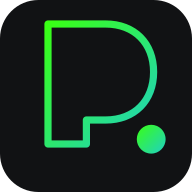
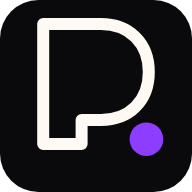
Player: oeffentliche Startseite, Branding und Typografie auf V2
Die Seite fuer Ausgeloggte war als einzige noch im alten Auftritt:
Neon-Pink (#FF00C8/#FF5CDC), Verlaufsschrift, Hero plus drei
Erklaerzeilen. Die eingeloggten Seiten sind davon nicht betroffen.

- /entdecken (!user): neu in Schwarz/Creme mit UV-Violett #8C3DFF.
  PLAYER → "Ping Pong spielen." → Rating · Ranking · Liga · Community →
  Login / Registrieren. Vier Elemente, keine Erklaerkarten.
- layout.tsx und globals.css: League Spartan raus, dafuer Anton fuer
  Titel und Inter fuer die Oberflaeche ueber next/font — vorher lud
  globals.css die Schrift ein zweites Mal per @import. Body-Farben auf
  die V2-Werte. Titel und Beschreibungen auf die neue Aussage.
- Sechs Seiten setzten "League Spartan" direkt als font-family und
  liefen damit auf der Systemschrift; jetzt var(--font-anton).
- SplashScreen und StartMenu liegen ueber jeder Seite, auch ueber der
  oeffentlichen: deren Pink-Verlauf ist jetzt Violett.
- Favicons, App-Icons und site.webmanifest im V2-Branding (Schwarz,
  Creme, violetter Ball) statt Neon-Gruen/Tuerkis.
- tsconfig/gitignore: _to_delete ausgenommen, sonst bricht der
  Typecheck an Dateien, die nicht zum Projekt gehoeren.

Auth, Supabase und die eingeloggten V2-Seiten sind unveraendert.
Production Build gruen, alle Seiten antworten.

Claude-Session: https://claude.ai/code/session_01QS4ATQcnr4Ejx3U3rTmHra

diff --git a/app/entdecken/page.tsx b/app/entdecken/page.tsx
@@ -6,26 +6,11 @@ import StartHomeV2, { Game } from '@/app/components/StartHomeV2'
 
 const BG = '#12151A', W = '#FFFFFF'
 const SUB = 'rgba(255,255,255,.9)', MUT = 'rgba(255,255,255,.85)'
-const GRAD = 'linear-gradient(135deg,#FF00C8,#FF5CDC)'
-const gt: React.CSSProperties = { background: GRAD, WebkitBackgroundClip: 'text', backgroundClip: 'text', WebkitTextFillColor: 'transparent' }
 
 const LV = [
   { n: 'Level 1', min: 0 }, { n: 'Level 2', min: 1050 }, { n: 'Level 3', min: 1150 },
   { n: 'Level 4', min: 1250 }, { n: 'Level 5', min: 1350 }, { n: 'Level 6', min: 1450 }, { n: 'Level 7', min: 1600 },
 ]
-
-function Logo() {
-  return (
-    <svg width={56} height={56} viewBox="0 0 80 80" fill="none" style={{ display: 'block' }}>
-      <defs><linearGradient id="lg" x1="0%" y1="0%" x2="100%" y2="100%"><stop offset="0%" stopColor="#FF00C8" /><stop offset="100%" stopColor="#FF5CDC" /></linearGradient></defs>
-      {/* P immer nur Outline; um -2 verschoben, damit das P selbst mittig sitzt (Ball hängt raus) */}
-      <g transform="translate(-2,0)">
-        <path d="M 20 60 L 20 10 L 44 10 C 56 10 64 18 64 30 C 64 42 56 50 44 50 L 36 50 L 36 60 Z" fill="none" stroke="url(#lg)" strokeWidth="2.5" strokeLinejoin="round" />
-        <circle cx="63" cy="58" r="6" fill="url(#lg)" />
-      </g>
-    </svg>
-  )
-}
 
 function initialsFrom(name?: string | null): string {
   if (!name) return 'PP'
@@ -40,80 +25,62 @@ export default async function EntdeckenPage() {
   const { data: { user } } = await sb.auth.getUser()
 
   if (!user) {
-    // Wie viele spielen schon mit? Der stärkste Grund mitzumachen ist,
-    // dass es bereits läuft.
+    // Oeffentliche Startseite (06.09.2026): PLAYER → Ping Pong spielen →
+    // Rating, Ranking, Liga, Community → Login. Vier Elemente, mehr nicht.
+    // Vorher stand hier der alte pinke Auftritt (#FF00C8/#FF5CDC) mit Hero,
+    // drei Erklaerzeilen und Verlaufsschrift. Farben hier bewusst als
+    // Konstanten im Block, weil app/theme.ts noch die alten Werte fuehrt.
+    const SCHWARZ = '#0A0A0C', CREME = '#FFF9F3', VIOLETT = '#8C3DFF'
+    const LEISE = 'rgba(255,249,243,.65)'
+    const SAEULEN = ['Rating', 'Ranking', 'Liga', 'Community']
+
     const { count: spielerCount } = await sb
       .from('public_profiles')
       .select('id', { count: 'exact', head: true })
 
-    // Eine Zeile im Block — dasselbe Muster wie überall: Icon, Text, Linie.
-    const ROW: React.CSSProperties = { display: 'flex', alignItems: 'center', gap: 13, padding: '14px 18px', borderTop: '1px solid rgba(255,255,255,.07)' }
-    const RIC: React.CSSProperties = { width: 34, height: 34, borderRadius: 10, background: '#353B46', display: 'flex', alignItems: 'center', justifyContent: 'center', flexShrink: 0 }
-
     return (
-      <main style={{ minHeight: '100vh', background: BG, paddingBottom: 40 }}>
-        <div style={{ maxWidth: 480, margin: '0 auto' }}>
+      <main style={{ minHeight: '100dvh', background: SCHWARZ, display: 'flex', flexDirection: 'column' }}>
+        {/* Das Foto traegt die Stimmung, der Verlauf traegt die Schrift —
+            kein Text sitzt auf einer hellen Bildstelle. */}
+        <div style={{ position: 'relative', flex: '1 1 auto', display: 'flex', flexDirection: 'column', justifyContent: 'flex-end', minHeight: 540, padding: '0 22px 44px' }}>
+          <div aria-hidden style={{ position: 'absolute', inset: 0, backgroundImage: "url('/hero-pokal.jpg')", backgroundSize: 'cover', backgroundPosition: '52% 42%' }} />
+          <div aria-hidden style={{ position: 'absolute', inset: 0, background: `linear-gradient(180deg, rgba(10,10,12,.60) 0%, rgba(10,10,12,.32) 26%, rgba(10,10,12,.86) 66%, ${SCHWARZ} 100%)` }} />
 
-          {/* Ein Bild, ein Satz, ein Knopf. Vorher: Hero + VIER Karten + eine
-              Bottom-Nav, die für Ausgeloggte überall in die Login-Wand lief. */}
-          <div style={{ position: 'relative', minHeight: 470, display: 'flex', flexDirection: 'column', justifyContent: 'flex-end', padding: '26px 22px 30px' }}>
-            <div style={{ position: 'absolute', inset: 0, backgroundImage: `linear-gradient(180deg, rgba(20,23,30,.2) 0%, rgba(20,23,30,.72) 52%, ${BG} 100%), url('/hero-pokal.jpg')`, backgroundSize: 'cover', backgroundPosition: 'center' }} />
-
-            <div style={{ position: 'relative', zIndex: 2 }}>
-              {/* Logo mittig und gross: P über der Wortmarke, Tagline exakt auf
-                  Wortmarkenbreite. Das P bleibt Outline, der Ball sitzt rechts unten. */}
-              <div style={{ display: 'flex', flexDirection: 'column', alignItems: 'center', marginBottom: 28 }}>
-                <svg width="72" height="72" viewBox="0 0 80 80" fill="none" aria-hidden>
-                  <defs><linearGradient id="hlg" x1="0" y1="0" x2="1" y2="1"><stop offset="0" stopColor="#FF00C8" /><stop offset="1" stopColor="#FF5CDC" /></linearGradient></defs>
-                  <path d="M 20 60 L 20 10 L 44 10 C 56 10 64 18 64 30 C 64 42 56 50 44 50 L 36 50 L 36 60 Z" fill="none" stroke="url(#hlg)" strokeWidth="3.6" strokeLinejoin="round" />
-                  <circle cx="63" cy="58" r="6.5" fill="url(#hlg)" />
-                </svg>
-                <div style={{ display: 'inline-flex', flexDirection: 'column', alignItems: 'stretch', marginTop: 8 }}>
-                  <div style={{ fontSize: 30, fontWeight: 900, letterSpacing: '.24em', lineHeight: 1, paddingLeft: '.24em', ...gt }}>PLAYER</div>
-                  <div style={{ fontSize: 9.5, fontWeight: 700, color: SUB, textTransform: 'uppercase', marginTop: 7, textAlign: 'justify', textAlignLast: 'justify' }}>Pingpong Next Level</div>
-                </div>
-                <span style={{ fontSize: 8.5, fontWeight: 800, letterSpacing: '.1em', textTransform: 'uppercase', color: '#FFFFFF', background: GRAD, borderRadius: 999, padding: '3px 8px', marginTop: 12 }}>Beta</span>
-              </div>
-
-              <h1 style={{ fontSize: 32, fontWeight: 900, lineHeight: 1.05, letterSpacing: '-.025em', margin: '0 0 11px', color: W, textAlign: 'center' }}>
-                Spiel. Trag ein.<br /><span style={gt}>Steig auf.</span>
-              </h1>
-              <p style={{ fontSize: 14.5, color: SUB, fontWeight: 300, lineHeight: 1.55, margin: '0 0 26px', textAlign: 'center' }}>
-                Liga, Turniere und Trainings — vom Anfänger bis zum Profi.
-                {spielerCount ? ` ${spielerCount} Spieler sind dabei.` : ''}
-              </p>
-
-              <Link href="/login" style={{ display: 'block', textAlign: 'center', borderRadius: 13, padding: 13, fontSize: 14, fontWeight: 800, textTransform: 'uppercase', letterSpacing: '.03em', color: '#FFF9F3', background: `linear-gradient(${BG},${BG}) padding-box, ${GRAD} border-box`, border: '1.5px solid transparent', textDecoration: 'none' }}>Login / Registrieren</Link>
-              <Link href="/spielen" style={{ display: 'block', textAlign: 'center', marginTop: 14, color: SUB, fontSize: 13.5, fontWeight: 500, textDecoration: 'none' }}>Schon gespielt? Resultat eintragen →</Link>
-            </div>
-          </div>
-
-          {/* EIN Block statt vier Karten — drei Zeilen sagen, was einen erwartet. */}
-          <div style={{ margin: '4px 14px 0', background: '#1C212B', borderRadius: 22, overflow: 'hidden', boxShadow: '0 1px 4px rgba(0,0,0,.14)' }}>
-            <div style={{ padding: '15px 18px 3px', fontSize: 11, fontWeight: 800, letterSpacing: '.14em', textTransform: 'uppercase', color: MUT }}>Was dich erwartet</div>
-
-            <div style={{ ...ROW, borderTop: 'none', paddingTop: 12 }}>
-              <span style={RIC}><img src="/icons/liga.svg" alt="" style={{ width: 19, height: 19 }} /></span>
-              <span style={{ flex: 1, minWidth: 0 }}>
-                <span style={{ display: 'block', fontSize: 14, fontWeight: 800, color: W }}>Liga</span>
-                <span style={{ display: 'block', fontSize: 12, color: MUT, marginTop: 2 }}>Fordere andere, trag dein Resultat ein, steig in der Tabelle.</span>
-              </span>
+          <div style={{ position: 'relative', zIndex: 2, width: '100%', maxWidth: 520, margin: '0 auto' }}>
+            {/* Wortmarke: P als Outline, der Ball violett. */}
+            <div style={{ display: 'flex', alignItems: 'center', gap: 12, marginBottom: 26 }}>
+              <svg width="40" height="40" viewBox="0 0 80 80" fill="none" aria-hidden>
+                <path d="M 20 60 L 20 10 L 44 10 C 56 10 64 18 64 30 C 64 42 56 50 44 50 L 36 50 L 36 60 Z" fill="none" stroke={CREME} strokeWidth="5" strokeLinejoin="round" />
+                <circle cx="63" cy="58" r="7" fill={VIOLETT} />
+              </svg>
+              <span style={{ fontFamily: 'var(--font-anton), Impact, sans-serif', fontSize: 30, letterSpacing: '.06em', color: CREME, lineHeight: 1 }}>PLAYER</span>
             </div>
 
-            <div style={ROW}>
-              <span style={RIC}><img src="/icons/open-game.svg" alt="" style={{ width: 19, height: 19 }} /></span>
-              <span style={{ flex: 1, minWidth: 0 }}>
-                <span style={{ display: 'block', fontSize: 14, fontWeight: 800, color: W }}>Open Game</span>
-                <span style={{ display: 'block', fontSize: 12, color: MUT, marginTop: 2 }}>Tisch und Zeit reinstellen — wer Lust hat, spielt mit.</span>
-              </span>
+            <h1 style={{ fontFamily: 'var(--font-anton), Impact, sans-serif', fontWeight: 400, fontSize: 'clamp(46px,13vw,76px)', lineHeight: .93, letterSpacing: '.005em', textTransform: 'uppercase', margin: '0 0 20px', color: CREME }}>
+              Ping Pong<br />spielen.
+            </h1>
+
+            {/* Die vier Saeulen als eine Zeile — keine Karten, keine Erklaerungen. */}
+            <div style={{ display: 'flex', flexWrap: 'wrap', alignItems: 'center', gap: '8px 12px', marginBottom: 32 }}>
+              {SAEULEN.map((wort, i) => (
+                <span key={wort} style={{ display: 'inline-flex', alignItems: 'center', gap: 12 }}>
+                  {i > 0 ? <span aria-hidden style={{ width: 5, height: 5, borderRadius: 100, background: VIOLETT }} /> : null}
+                  <span style={{ fontSize: 16, fontWeight: 800, letterSpacing: '.1em', textTransform: 'uppercase', color: CREME }}>{wort}</span>
+                </span>
+              ))}
             </div>
 
-            <div style={ROW}>
-              <span style={RIC}><img src="/icons/turnier.svg" alt="" style={{ width: 19, height: 19 }} /></span>
-              <span style={{ flex: 1, minWidth: 0 }}>
-                <span style={{ display: 'block', fontSize: 14, fontWeight: 800, color: W }}>Turnier &amp; Training</span>
-                <span style={{ display: 'block', fontSize: 12, color: MUT, marginTop: 2 }}>K.o.-Bracket, Podest, PingPoints. Dazu Coaching &amp; Drills.</span>
-              </span>
+            <Link href="/login" style={{ display: 'block', textAlign: 'center', background: CREME, color: SCHWARZ, borderRadius: 100, padding: '17px 24px', fontSize: 16, fontWeight: 900, letterSpacing: '.1em', textTransform: 'uppercase', textDecoration: 'none' }}>
+              Login / Registrieren
+            </Link>
+
+            <div style={{ marginTop: 18, textAlign: 'center' }}>
+              <Link href="/spielen" style={{ fontSize: 16, fontWeight: 600, color: CREME, textDecoration: 'none' }}>
+                Schon gespielt? Resultat eintragen
+              </Link>
+              {spielerCount ? (
+                <div style={{ marginTop: 10, fontSize: 16, color: LEISE }}>{spielerCount} Spieler sind dabei.</div>
+              ) : null}
             </div>
           </div>
         </div>

diff --git a/app/components/StartMenu.tsx b/app/components/StartMenu.tsx
@@ -48,12 +48,12 @@ export default function StartMenu({ name = "Spieler", sub = "", inline = false, 
   return (
     <>
       {avatar ? (
-        <button onClick={() => setOpen(true)} aria-label="Profil & Menü" style={{ ...(inline ? { position: "relative" } : { position: "absolute", top: 18, right: 16, zIndex: 20 }), width: 46, height: 46, borderRadius: "50%", background: "linear-gradient(135deg,#FF00C8,#FF5CDC)", color: "#FFFFFF", fontSize: 17, fontWeight: 900, display: "flex", alignItems: "center", justifyContent: "center", cursor: "pointer" }}>
+        <button onClick={() => setOpen(true)} aria-label="Profil & Menü" style={{ ...(inline ? { position: "relative" } : { position: "absolute", top: 18, right: 16, zIndex: 20 }), width: 46, height: 46, borderRadius: "50%", background: "linear-gradient(135deg,#8C3DFF,#C9A8FF)", color: "#FFFFFF", fontSize: 17, fontWeight: 900, display: "flex", alignItems: "center", justifyContent: "center", cursor: "pointer" }}>
           {avatar}
         </button>
       ) : (
         <button onClick={() => setOpen(true)} aria-label="Menü" style={{ ...(inline ? { position: "relative" } : { position: "absolute", top: 18, right: 16, zIndex: 20 }), background: C, borderRadius: 11, width: 40, height: 40, display: "flex", alignItems: "center", justifyContent: "center", cursor: "pointer" }}>
-          <svg width="22" height="22" viewBox="0 0 24 24" fill="none" stroke="url(#igm)" strokeWidth="2" strokeLinecap="round"><defs><linearGradient id="igm" x1="0" y1="0" x2="1" y2="1"><stop offset="0" stopColor="#FF00C8"/><stop offset="1" stopColor="#FF5CDC"/></linearGradient></defs><path d="M4 7h16M4 12h16M4 17h16"/></svg>
+          <svg width="22" height="22" viewBox="0 0 24 24" fill="none" stroke="url(#igm)" strokeWidth="2" strokeLinecap="round"><defs><linearGradient id="igm" x1="0" y1="0" x2="1" y2="1"><stop offset="0" stopColor="#8C3DFF"/><stop offset="1" stopColor="#C9A8FF"/></linearGradient></defs><path d="M4 7h16M4 12h16M4 17h16"/></svg>
         </button>
       )}
 
@@ -69,21 +69,21 @@ export default function StartMenu({ name = "Spieler", sub = "", inline = false, 
 
             {authed ? (
             <Link href="/profil" onClick={() => setOpen(false)} style={{ display: "flex", alignItems: "center", gap: 13, padding: "13px 14px", background: C, borderRadius: 16, textDecoration: "none" }}>
-              <span style={{ width: 46, height: 46, borderRadius: "50%", background: "linear-gradient(135deg,#FF00C8,#FF5CDC)", padding: 2, flexShrink: 0, display: "block" }}>
+              <span style={{ width: 46, height: 46, borderRadius: "50%", background: "linear-gradient(135deg,#8C3DFF,#C9A8FF)", padding: 2, flexShrink: 0, display: "block" }}>
                 <span style={{ width: "100%", height: "100%", borderRadius: "50%", background: "#13161B", display: "flex", alignItems: "center", justifyContent: "center", fontSize: 20 }}><svg width="22" height="22" viewBox="0 0 24 24" fill="none" stroke="#fff" strokeWidth="1.7" strokeLinecap="round"><circle cx="10" cy="9.4" r="5.4"/><path d="M13.9 13.3 19.4 18.8"/><circle cx="18" cy="6.4" r="1.8" fill="#fff" stroke="none"/></svg></span>
               </span>
               <span style={{ flex: 1 }}>
                 <span style={{ display: "block", fontSize: 16, fontWeight: 500, color: W }}>{name}</span>
                 <span style={{ display: "block", fontSize: 11, color: M, marginTop: 2 }}>{sub || "profil ansehen"}</span>
               </span>
-              <span style={{ color: "#FF00C8", fontSize: 18 }}>›</span>
+              <span style={{ color: "#8C3DFF", fontSize: 18 }}>›</span>
             </Link>
             ) : (
             <div style={{ background: C, borderRadius: 16, padding: "15px 15px 13px" }}>
               <p style={{ fontSize: 15, fontWeight: 600, color: W, margin: 0 }}>noch nicht angemeldet</p>
               <p style={{ fontSize: 12.5, color: M, margin: "5px 0 12px" }}>mit konto: liga, pingpoints, deine spiele und ergebnisse.</p>
               <div style={{ display: "flex", gap: 8 }}>
-                <Link href="/login" onClick={() => setOpen(false)} style={{ flex: 1, textAlign: "center", background: "#FF00C8", color: "#FFFFFF", borderRadius: 100, padding: "11px 14px", fontSize: 13, fontWeight: 700, textDecoration: "none" }}>anmelden</Link>
+                <Link href="/login" onClick={() => setOpen(false)} style={{ flex: 1, textAlign: "center", background: "#8C3DFF", color: "#FFFFFF", borderRadius: 100, padding: "11px 14px", fontSize: 13, fontWeight: 700, textDecoration: "none" }}>anmelden</Link>
                 <Link href="/onboarding" onClick={() => setOpen(false)} style={{ flex: 1, textAlign: "center", background: "#232833", color: W, borderRadius: 100, padding: "11px 14px", fontSize: 13, fontWeight: 700, textDecoration: "none" }}>konto erstellen</Link>
               </div>
             </div>

diff --git a/app/layout.tsx b/app/layout.tsx
@@ -1,5 +1,5 @@
 import type { Metadata } from "next"
-import { League_Spartan } from "next/font/google"
+import { Anton, Inter } from "next/font/google"
 import "./globals.css"
 import AppHeader from "./components/AppHeader"
 import SplashScreen from "./components/SplashScreen"
@@ -7,18 +7,16 @@ import InvitePopup from "./components/InvitePopup"
 
 const BASE = "https://playerapp.ch"
 
-const leagueSpartan = League_Spartan({
-  subsets: ["latin"],
-  variable: "--font-league-spartan",
-  weight: ["400", "500", "600", "700", "800", "900"],
-  display: "swap",
-})
+// 06.09.2026: League Spartan raus. Zwei Schriften, mehr nicht — Anton fuer
+// Titel, Inter fuer die Oberflaeche, dasselbe System wie pingponglounge.ch.
+const anton = Anton({ subsets: ["latin"], weight: "400", variable: "--font-anton", display: "swap" })
+const inter = Inter({ subsets: ["latin"], variable: "--font-inter", display: "swap" })
 
 export const metadata: Metadata = {
   metadataBase: new URL(BASE),
   alternates: { canonical: BASE },
-  title: "Player — Pingpong Next Level",
-  description: "Liga, Open Games und Turniere — vom Anfänger bis zum Profi. Spiel, trag dein Resultat ein, steig auf.",
+  title: "PPL Player — Ping Pong spielen",
+  description: "Ping Pong spielen — Rating, Ranking, Liga und Community. Vom Anfänger bis zum Profi.",
   icons: {
     icon: [
       { url: "/favicon.svg", type: "image/svg+xml" },
@@ -34,14 +32,14 @@ export const metadata: Metadata = {
     locale: "de_CH",
     url: BASE,
     siteName: "Player",
-    title: "Player — Spiel. Trag ein. Steig auf.",
-    description: "Liga, Open Games und Turniere — vom Anfänger bis zum Profi.",
+    title: "PPL Player — Ping Pong spielen",
+    description: "Rating, Ranking, Liga und Community.",
     images: [{ url: "/share-card.jpg", width: 1200, height: 630, alt: "Player — Pingpong Next Level" }],
   },
   twitter: {
     card: "summary_large_image",
-    title: "Player — Spiel. Trag ein. Steig auf.",
-    description: "Liga, Open Games und Turniere — vom Anfänger bis zum Profi.",
+    title: "PPL Player — Ping Pong spielen",
+    description: "Rating, Ranking, Liga und Community.",
     images: ["/share-card.jpg"],
   },
 }
@@ -50,7 +48,7 @@ export const viewport = { themeColor: "#080808" }
 
 export default function RootLayout({ children }: { children: React.ReactNode }) {
   return (
-    <html lang="de" className={leagueSpartan.variable}>
+    <html lang="de" className={`${anton.variable} ${inter.variable}`}>
       <body style={{ margin: 0, background: "#080808", color: "#F4F1EB", fontFamily: "var(--font-league-spartan), system-ui, sans-serif", minHeight: "100vh" }}>
         <SplashScreen />
         <AppHeader />

diff --git a/app/staff/redeem/page.tsx b/app/staff/redeem/page.tsx
@@ -39,7 +39,7 @@ export default function StaffRedeemPage() {
     <main style={{ minHeight: "100vh", background: BG, padding: "20px", display: "flex", alignItems: "center", justifyContent: "center" }}>
       <div style={{ maxWidth: 420, width: "100%" }}>
         <p style={{ fontSize: 11, fontWeight: 700, color: M, letterSpacing: "0.16em", textTransform: "uppercase", marginBottom: 8 }}>staff tool</p>
-        <h1 style={{ fontSize: 28, fontWeight: 900, fontFamily: "'League Spartan', system-ui, sans-serif", textTransform: "uppercase", letterSpacing: ".1em", marginBottom: 4, background: GRAD, WebkitBackgroundClip: "text", WebkitTextFillColor: "transparent", backgroundClip: "text" }}>code einlösen</h1>
+        <h1 style={{ fontSize: 28, fontWeight: 900, fontFamily: "var(--font-anton), Impact, sans-serif", textTransform: "uppercase", letterSpacing: ".1em", marginBottom: 4, background: GRAD, WebkitBackgroundClip: "text", WebkitTextFillColor: "transparent", backgroundClip: "text" }}>code einlösen</h1>
         <p style={{ fontSize: 13, color: M, marginBottom: 28 }}>gutscheincode des kunden eintippen oder per kamera scannen.</p>
 
         <form onSubmit={handleCheck}>

diff --git a/app/auth/reset-password/page.tsx b/app/auth/reset-password/page.tsx
@@ -36,7 +36,7 @@ export default function ResetPasswordPage() {
             <defs><linearGradient id="rpg" x1="0" y1="0" x2="1" y2="1"><stop offset="0" stopColor="#FF00C8"/><stop offset="1" stopColor="#FF5CDC"/></linearGradient></defs>
             <path d="M 6 68 L 6 12 L 30 12 C 44 12 52 20 52 34 C 52 48 44 56 30 56 L 22 56 L 22 68 Z" fill="none" stroke="url(#rpg)" strokeWidth="4" strokeLinejoin="round"/>
             <circle cx="62" cy="64" r="7" fill="url(#rpg)"/>
-            <text x="76" y="66" fontFamily="'League Spartan', system-ui, sans-serif" fontSize="58" fontWeight="900" letterSpacing="2" fill="none" stroke="url(#rpg)" strokeWidth="2.2" paintOrder="stroke">PLAYER</text>
+            <text x="76" y="66" fontFamily="var(--font-anton), Impact, sans-serif" fontSize="58" fontWeight="900" letterSpacing="2" fill="none" stroke="url(#rpg)" strokeWidth="2.2" paintOrder="stroke">PLAYER</text>
           </svg>
           <h1 style={{ ...h1, fontSize: 28 }}>Neues Passwort</h1>
           <p style={{ ...body, marginTop: '6px' }}>Wähle ein sicheres Passwort</p>

diff --git a/app/admin/liga/page.tsx b/app/admin/liga/page.tsx
@@ -79,7 +79,7 @@ export default function AdminLigaPage(){
     <main style={{minHeight:"100vh",background:BG,padding:"20px 20px 80px"}}>
       <div style={{maxWidth:600,margin:"0 auto"}}>
         <Link href="/dashboard" style={{position:"absolute",left:"50%",transform:"translateX(-50%)",display:"flex",color:M,textDecoration:"none",fontSize:13}}>← dashboard</Link>
-        <h1 style={{fontSize:28,fontWeight:900,fontFamily:"'League Spartan', system-ui, sans-serif",textTransform:"uppercase",letterSpacing:".1em",margin:"16px 0 24px",background:GRAD,WebkitBackgroundClip:"text",WebkitTextFillColor:"transparent",backgroundClip:"text"}}>liga admin</h1>
+        <h1 style={{fontSize:28,fontWeight:900,fontFamily:"var(--font-anton), Impact, sans-serif",textTransform:"uppercase",letterSpacing:".1em",margin:"16px 0 24px",background:GRAD,WebkitBackgroundClip:"text",WebkitTextFillColor:"transparent",backgroundClip:"text"}}>liga admin</h1>
 
         {/* Create form */}
         <div style={{background:C,borderRadius:14,padding:"20px",marginBottom:24}}>

diff --git a/app/globals.css b/app/globals.css
@@ -1,4 +1,5 @@
-@import url("https://fonts.googleapis.com/css2?family=League+Spartan:wght@900;800;700;600&display=swap");
+/* 06.09.2026: League Spartan raus. Anton und Inter kommen ueber next/font
+   aus app/layout.tsx — kein zweiter Ladeweg, keine Systemschrift mehr. */
 * { box-sizing: border-box; margin: 0; padding: 0; }
 /* Kein Standard-Rahmen auf Buttons/Feldern: sonst zeichnet der Browser eine
    weisse Umrandung um jeden Button (Namen, Tabs, Chips) — dort wo im Style
@@ -6,4 +7,4 @@
 button, input, textarea, select { border: none; outline: none; }
 button { background: none; }
 :root { --green: #FF00C8; --dark: #14161A; --card: #15161A; --border: #26282E; --muted: #6B6E7A; --text: #E8E6E1; }
-body { font-family: var(--font-league-spartan), "League Spartan", system-ui, sans-serif; background: #14161A; color: #E8E6E1; -webkit-font-smoothing: antialiased; }
+body { font-family: var(--font-inter), system-ui, sans-serif; background: #0A0A0C; color: #FFF9F3; -webkit-font-smoothing: antialiased; }

diff --git a/app/components/SplashScreen.tsx b/app/components/SplashScreen.tsx
@@ -2,7 +2,9 @@
 import { useEffect, useState } from "react"
 
 // Nur noch PPL-Pink — Gruen und Tuerkis sind aus der Player-App raus.
-const GRAD = "linear-gradient(135deg,#FF00C8,#FF5CDC)"
+// 06.09.2026: UV-Violett statt Neon-Pink — der Splash liegt ueber jeder
+// Seite, auch ueber der oeffentlichen Startseite.
+const GRAD = "linear-gradient(135deg,#8C3DFF,#C9A8FF)"
 const gt: React.CSSProperties = {
   background: GRAD,
   WebkitBackgroundClip: "text",
@@ -78,8 +80,8 @@ export default function SplashScreen() {
         >
           <defs>
             <linearGradient id="sg" x1="0%" y1="0%" x2="100%" y2="100%">
-              <stop offset="0%" stopColor="#FF00C8" />
-              <stop offset="100%" stopColor="#FF5CDC" />
+              <stop offset="0%" stopColor="#8C3DFF" />
+              <stop offset="100%" stopColor="#C9A8FF" />
             </linearGradient>
           </defs>
 

diff --git a/app/auth/reset/ResetForm.tsx b/app/auth/reset/ResetForm.tsx
@@ -6,7 +6,7 @@ import { Suspense } from "react"
 const input: React.CSSProperties = {
   background: "#1A1C1F", borderRadius: 10,
   padding: "14px 16px", color: "#fff", fontSize: 15, outline: "none",
-  width: "100%", fontFamily: "'League Spartan', system-ui, sans-serif",
+  width: "100%", fontFamily: "var(--font-anton), Impact, sans-serif",
   boxSizing: "border-box" as const,
 }
 
@@ -15,7 +15,7 @@ const btn: React.CSSProperties = {
   borderRadius: 10, padding: "14px", fontSize: "14px", fontWeight: 700,
   cursor: "pointer", color: "#FFFFFF", textTransform: "uppercase" as const,
   letterSpacing: "0.06em", width: "100%",
-  fontFamily: "'League Spartan', system-ui, sans-serif",
+  fontFamily: "var(--font-anton), Impact, sans-serif",
 }
 
 function FormContent() {

diff --git a/app/profil/avatar/page.tsx b/app/profil/avatar/page.tsx
@@ -137,7 +137,7 @@ export default function AvatarPage() {
         {/* Header */}
         <div style={{ display:"flex", alignItems:"center", gap:12, marginBottom:24 }}>
           <Link href="/profil" style={{ color:M, fontSize:20, textDecoration:"none" }}>←</Link>
-          <h1 style={{ ...h1, fontSize:22, fontFamily:"'League Spartan', system-ui, sans-serif", letterSpacing:".1em", margin:0 }}>
+          <h1 style={{ ...h1, fontSize:22, fontFamily:"var(--font-anton), Impact, sans-serif", letterSpacing:".1em", margin:0 }}>
             Avatar erstellen
           </h1>
         </div>

diff --git a/app/components/PlayerLogo.tsx b/app/components/PlayerLogo.tsx
@@ -98,7 +98,7 @@ export default function PlayerLogo({ size = "md", showTagline = false }: PlayerL
           letterSpacing: "3px",
           textTransform: "uppercase" as const,
           lineHeight: 1,
-          fontFamily: "'League Spartan', system-ui, sans-serif",
+          fontFamily: "var(--font-anton), Impact, sans-serif",
           userSelect: "none" as const,
           background: "linear-gradient(135deg, #FF00C8 0%, #FF5CDC 100%)",
           WebkitBackgroundClip: "text",
